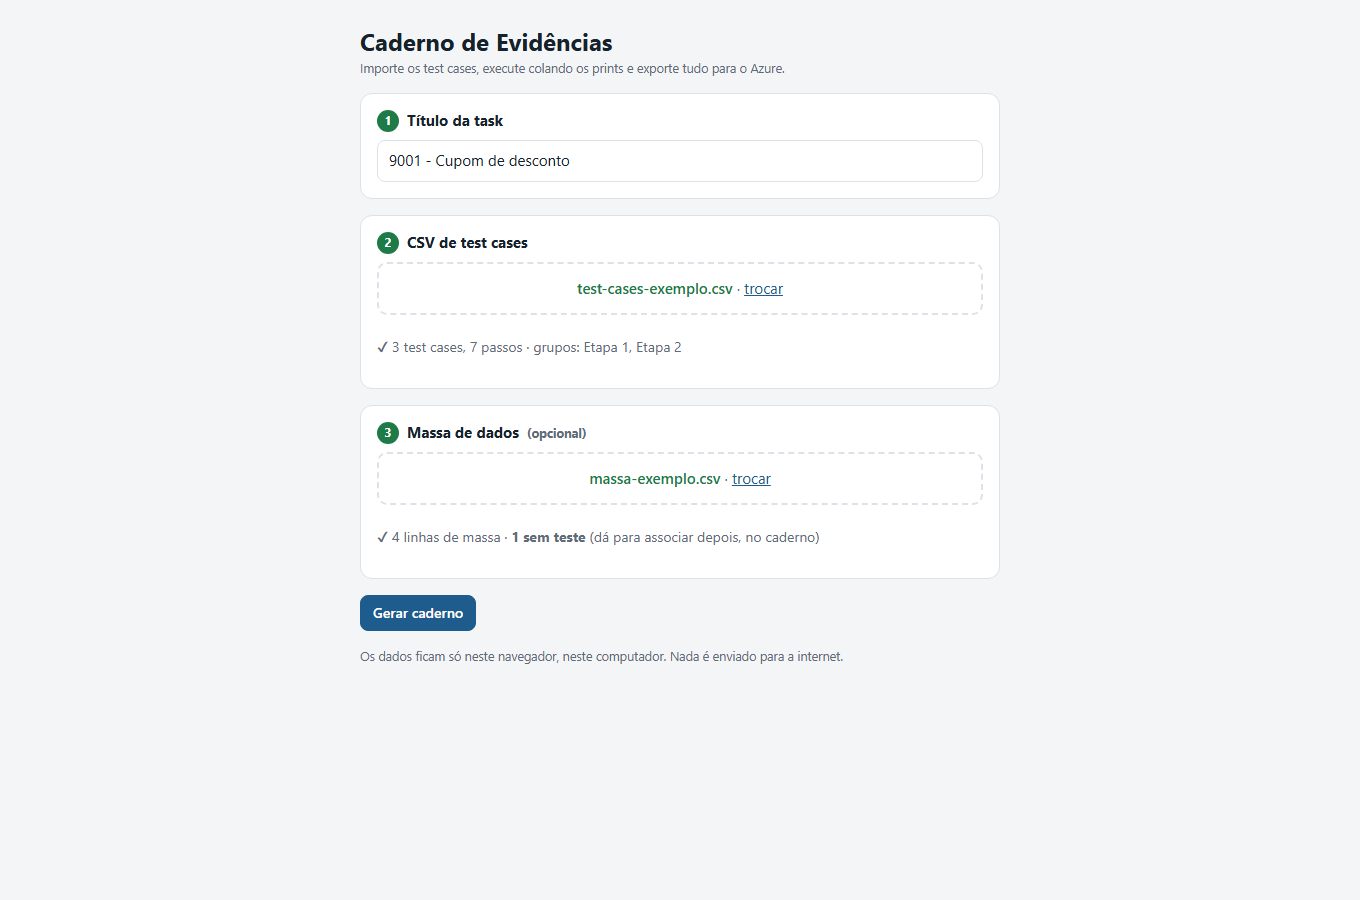
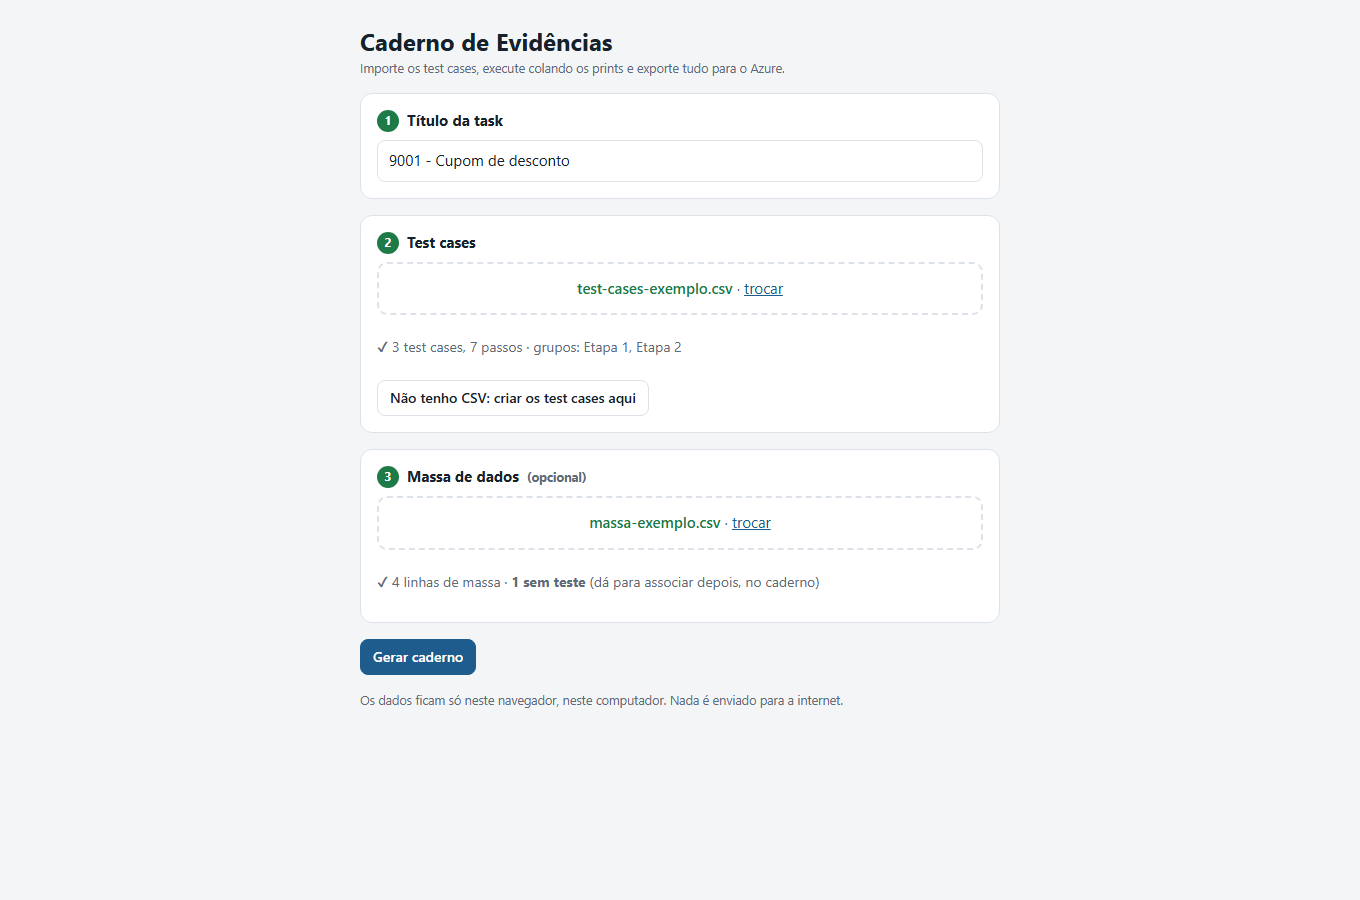
feat: criar caderno sem CSV, com os test cases feitos na tela
- Etapa 2 da tela inicial: "Nao tenho CSV: criar os test cases aqui".
- O caderno abre editando um CT01 em branco; "+ Novo test case" herda o
  grupo, Area Path e Assigned To do teste atual.
- O CSV exportado usa o formato padrao do Azure (BOM, CRLF, State Design)
  e reimporta igual (teste de ida e volta).
- Lista mostra "(sem titulo)" enquanto o titulo esta vazio.

diff --git a/src/tela/inicio.ts b/src/tela/inicio.ts
@@ -1,21 +1,28 @@
-// Tela inicial: uma coisa por vez. 1) titulo da task, 2) CSV de test cases,
-// 3) massa (opcional). O botao so libera quando 1 e 2 estao certos.
+// Tela inicial: uma coisa por vez. 1) titulo da task, 2) CSV de test cases
+// (ou criar os test cases na tela), 3) massa (opcional). O botao so libera
+// quando 1 e 2 estao certos.
 
 import * as db from '../armazenamento/db.ts';
 import { importarCsvAzureSeguro, type ResultadoImportacao } from '../importar/csv-azure.ts';
 import { importarMassa, type ResultadoMassa } from '../importar/massa.ts';
-import { statusEfetivo, type Caderno } from '../modelo.ts';
-import { criarCaderno } from './estado.ts';
+import { FORMATO_PADRAO, statusEfetivo, testeEmBranco, type Caderno } from '../modelo.ts';
+import { criarCaderno, estado } from './estado.ts';
 import { $, confirmarNoSegundoClique, esc, lerArquivo } from './util.ts';
 
 type Entrada = {
   tarefa: string;
   csv: { nome: string; resultado: ResultadoImportacao } | null;
+  semCsv: boolean;       // test cases criados na tela, sem arquivo
   massa: { nome: string; texto: string } | null;
 };
 
 export function mostrarInicio(salvos: Caderno[], abrirCaderno: (c: Caderno) => void, aoCriar: () => void): void {
-  const e: Entrada = { tarefa: '', csv: null, massa: null };
+  const e: Entrada = { tarefa: '', csv: null, semCsv: false, massa: null };
+
+  const podeGerar = () => {
+    const massa = massaAtual();
+    return e.tarefa.trim().length > 0 && (e.semCsv || (e.csv?.resultado.ok ?? false)) && (!massa || massa.ok);
+  };
   const cadernos = [...salvos].sort((a, b) => b.atualizadoEm - a.atualizadoEm);
 
   const massaAtual = (): ResultadoMassa | null => {
@@ -25,9 +32,9 @@ export function mostrarInicio(salvos: Caderno[], abrirCaderno: (c: Caderno) => v
   };
 
   const render = () => {
-    const csvOk = e.csv?.resultado.ok ?? false;
+    const csvOk = e.semCsv || (e.csv?.resultado.ok ?? false);
     const massa = massaAtual();
-    const pronto = e.tarefa.trim().length > 0 && csvOk && (!massa || massa.ok);
+    const pronto = podeGerar();
 
     $('#app')!.innerHTML = `<div class="inicio">
       <div>
@@ -45,9 +52,13 @@ export function mostrarInicio(salvos: Caderno[], abrirCaderno: (c: Caderno) => v
       </section>
 
       <section class="etapa ${csvOk ? 'ok' : ''}">
-        <h2><span class="num">2</span> CSV de test cases</h2>
-        ${zonaArquivo('csv', '.csv,text/csv', e.csv?.nome)}
-        ${e.csv ? resumoCsv(e.csv.resultado) : '<p class="note">O CSV de importação do Azure Test Plans (o que a IA da empresa gera).</p>'}
+        <h2><span class="num">2</span> Test cases</h2>
+        ${e.semCsv
+          ? `<p class="resumo-import">✔ Sem CSV: o caderno começa com um test case em branco para você preencher, e os outros você inclui com "+ Novo test case".</p>
+             <div><button class="btn ghost" id="usar-csv">Usar um CSV</button></div>`
+          : `${zonaArquivo('csv', '.csv,text/csv', e.csv?.nome)}
+             ${e.csv ? resumoCsv(e.csv.resultado) : '<p class="note">O CSV de importação do Azure Test Plans (o que a IA da empresa gera).</p>'}
+             <div><button class="btn ghost" id="sem-csv">Não tenho CSV: criar os test cases aqui</button></div>`}
       </section>
 
       <section class="etapa ${massa?.ok ? 'ok' : ''}">
@@ -77,14 +88,15 @@ export function mostrarInicio(salvos: Caderno[], abrirCaderno: (c: Caderno) => v
     );
     $<HTMLInputElement>('#tarefa')!.addEventListener('input', (ev) => {
       e.tarefa = (ev.target as HTMLInputElement).value;
-      const btn = $<HTMLButtonElement>('#gerar')!;
-      const massa = massaAtual();
-      btn.disabled = !(e.tarefa.trim() && e.csv?.resultado.ok && (!massa || massa.ok));
+      $<HTMLButtonElement>('#gerar')!.disabled = !podeGerar();
       $('#tarefa')!.closest('.etapa')!.classList.toggle('ok', Boolean(e.tarefa.trim()));
     });
+    $('#sem-csv')?.addEventListener('click', () => { e.semCsv = true; render(); });
+    $('#usar-csv')?.addEventListener('click', () => { e.semCsv = false; render(); });
 
     for (const tipo of ['csv', 'massa'] as const) {
-      const zona = $(`#zona-${tipo}`)!;
+      const zona = $(`#zona-${tipo}`);
+      if (!zona) continue; // sem CSV, a zona do arquivo nao aparece
       const receber = async (arquivo: File | undefined) => {
         if (!arquivo) return;
         const texto = await lerArquivo(arquivo);
@@ -99,10 +111,13 @@ export function mostrarInicio(salvos: Caderno[], abrirCaderno: (c: Caderno) => v
     }
 
     $('#gerar')!.addEventListener('click', async () => {
-      if (!e.csv?.resultado.ok) return;
-      const { testes, formato } = e.csv.resultado;
+      if (!podeGerar()) return;
       const massa = massaAtual();
-      await criarCaderno({ tarefa: e.tarefa.trim(), testes, formato, massa: massa?.ok ? massa.linhas : [] });
+      const origem = e.semCsv || !e.csv?.resultado.ok
+        ? { testes: [testeEmBranco('CT01')], formato: FORMATO_PADRAO }
+        : { testes: e.csv.resultado.testes, formato: e.csv.resultado.formato };
+      await criarCaderno({ tarefa: e.tarefa.trim(), ...origem, massa: massa?.ok ? massa.linhas : [] });
+      estado.editando = e.semCsv; // sem CSV, ja abre editando o primeiro test case
       aoCriar();
     });
   };

diff --git a/src/tela/caderno.ts b/src/tela/caderno.ts
@@ -11,7 +11,7 @@ import { exportarCsvAzure } from '../exportar/csv-azure.ts';
 import { nomeEvidencia, slug } from '../exportar/nomes.ts';
 import { gerarPacote, gerarRelatorioUnico, nomeDoPacote, nomeDoRelatorio } from '../exportar/pacote.ts';
 import {
-  EXECUCAO_VAZIA, passoQueFalhou, statusEfetivo,
+  EXECUCAO_VAZIA, passoQueFalhou, statusEfetivo, testeEmBranco,
   type DadosExecucao, type Evidencia, type NivelRisco, type Risco, type StatusTeste, type TestCase,
 } from '../modelo.ts';
 import * as db from '../armazenamento/db.ts';
@@ -105,7 +105,7 @@ function renderLista(): void {
     }
     const fotos = evidenciasDo(t.id).length;
     html += `<button class="item" data-teste="${t.id}" aria-current="${t.id === cad.ativo.testeId}">
-      <span class="n">${t.id}</span><span class="t" title="${esc(t.titulo)}">${esc(tituloCurto(t) || t.titulo)}</span>
+      <span class="n">${t.id}</span><span class="t" title="${esc(t.titulo)}">${esc(tituloCurto(t) || t.titulo || '(sem título)')}</span>
       <span class="meta">${fotos ? `<span class="cam">${fotos} 📷</span>` : ''}<span class="dot ${st}" title="${ROTULO[st]}"></span></span></button>`;
   }
   $('#itens')!.innerHTML = html || '<div class="grupo">Nada aqui</div>';
@@ -134,7 +134,7 @@ function renderCard(): void {
     <div class="head">
       <div>
         <div class="eyebrow">${t.id} · ${esc(t.grupo || 'Sem grupo')} · teste ${i + 1} de ${cad.testes.length}</div>
-        ${ed ? `<input type="text" data-edit="titulo" value="${esc(t.titulo)}" aria-label="Título do test case" style="width:100%;font-size:17px;font-weight:600">`
+        ${ed ? `<input type="text" data-edit="titulo" value="${esc(t.titulo)}" aria-label="Título do test case" placeholder="[Etapa 1] O que este teste valida" style="width:100%;font-size:17px;font-weight:600">`
              : `<h2>${esc(t.titulo)}</h2>`}
       </div>
       <span class="selo chip c-${st || 'todo'}">${ROTULO[st]}</span>
@@ -307,16 +307,7 @@ function novoTeste(): void {
   const maior = Math.max(0, ...cad.testes.map((t) => Number(t.id.replace(/\D/g, '')) || 0));
   const largura = Math.max(2, (cad.testes[0]?.id.length ?? 4) - 2);
   const base = testeAtivo();
-  const t: TestCase = {
-    id: `CT${String(maior + 1).padStart(largura, '0')}`,
-    titulo: base.grupo ? `[${base.grupo}] Novo test case` : 'Novo test case',
-    grupo: base.grupo,
-    passos: [{ acao: '', esperado: '', status: '' }],
-    status: '',
-    observacao: '',
-    azure: { id: '', areaPath: base.azure.areaPath, assignedTo: base.azure.assignedTo, state: 'Design' },
-    linhasOriginais: [],
-  };
+  const t = testeEmBranco(`CT${String(maior + 1).padStart(largura, '0')}`, base);
   cad.testes.splice(cad.testes.indexOf(base) + 1, 0, t);
   cad.ativo = { testeId: t.id, passo: 1 };
   estado.editando = true;

diff --git a/tests/e2e/cadernos.spec.ts b/tests/e2e/cadernos.spec.ts
@@ -19,6 +19,39 @@ test('varios cadernos: criar outro nao apaga o primeiro', async ({ page }) => {
   await expect(page.locator('.shot .fname')).toHaveText(['CT01_P1_01.png']);
 });
 
+test('criar caderno sem CSV: test cases feitos na tela e exportados para o Azure', async ({ page }) => {
+  await page.goto(pagina);
+  await page.getByPlaceholder('Cole aqui o título da task do Azure').fill('9003 - Sem CSV');
+  await expect(page.getByRole('button', { name: 'Gerar caderno' })).toBeDisabled();
+  await page.getByRole('button', { name: 'Não tenho CSV: criar os test cases aqui' }).click();
+  await page.getByRole('button', { name: 'Gerar caderno' }).click();
+
+  // Ja abre editando o CT01 em branco
+  await expect(page.locator('.item .t')).toHaveText('(sem título)');
+  await page.getByLabel('Título do test case').fill('[Etapa 1] Cupom válido');
+  await page.getByLabel('Ação do passo 1').fill('Aplicar o cupom.');
+  await page.getByLabel('Resultado esperado do passo 1').fill('Desconto aplicado.');
+
+  await page.getByRole('button', { name: '+ Novo test case' }).click();
+  await expect(page.getByLabel('Título do test case')).toHaveValue('[Etapa 1] '); // herda o grupo
+  await page.getByLabel('Título do test case').fill('[Etapa 1] Cupom expirado');
+  await page.getByLabel('Ação do passo 1').fill('Aplicar VERAO2020.');
+  await page.getByLabel('Resultado esperado do passo 1').fill('Cupom recusado.');
+  await page.getByRole('button', { name: '✔ Concluir edição' }).click();
+
+  await expect(page.locator('.item .n')).toHaveText(['CT01', 'CT02']);
+  await page.getByLabel('Passo 1 passou').click(); // executa como qualquer caderno
+  await expect(page.locator('#card .selo')).toHaveText('Passou');
+
+  const [download] = await Promise.all([page.waitForEvent('download'), page.getByRole('button', { name: 'Exportar CSV do Azure' }).click()]);
+  expect(readFileSync(await download.path(), 'utf8')).toBe('' + [
+    'ID,Work Item Type,Title,Test Step,Step Action,Step Expected,Area Path,Assigned To,State',
+    ',Test Case,[Etapa 1] Cupom válido,1,Aplicar o cupom.,Desconto aplicado.,,,Design',
+    ',Test Case,[Etapa 1] Cupom expirado,1,Aplicar VERAO2020.,Cupom recusado.,,,Design',
+    '',
+  ].join('\r\n'));
+});
+
 test('excluir caderno da lista pede confirmacao', async ({ page }) => {
   await gerarCaderno(page);
   await page.getByRole('button', { name: 'Meus cadernos' }).click();

diff --git a/tests/unit/exportar-csv.test.ts b/tests/unit/exportar-csv.test.ts
@@ -3,6 +3,7 @@ import assert from 'node:assert/strict';
 import { readFileSync } from 'node:fs';
 import { importarCsvAzure } from '../../src/importar/csv-azure.ts';
 import { exportarCsvAzure } from '../../src/exportar/csv-azure.ts';
+import { FORMATO_PADRAO, testeEmBranco } from '../../src/modelo.ts';
 
 const exemplo = readFileSync(new URL('../../exemplos/test-cases-exemplo.csv', import.meta.url), 'utf8');
 const ida = (texto: string) => {
@@ -49,6 +50,29 @@ test('resultado da execucao nao entra no CSV', () => {
   c.testes[0].passos[0].status = 'bad';
   c.testes[0].observacao = 'falhou';
   assert.equal(exportarCsvAzure(c), exemplo);
+});
+
+test('caderno criado sem CSV exporta no formato do Azure e reimporta igual', () => {
+  const t1 = testeEmBranco('CT01');
+  t1.titulo = '[Etapa 1] Cupom válido';
+  t1.grupo = 'Etapa 1';
+  t1.passos = [{ acao: 'Aplicar o cupom.', esperado: 'Desconto de 10%, sem arredondar.', status: '' }];
+  const t2 = testeEmBranco('CT02', t1);
+  t2.titulo += 'Cupom expirado';
+  t2.passos = [{ acao: 'Aplicar VERAO2020.', esperado: 'Cupom recusado.', status: '' }, { acao: 'Finalizar.', esperado: 'Sem desconto.', status: '' }];
+
+  const csv = exportarCsvAzure({ testes: [t1, t2], formato: FORMATO_PADRAO });
+  assert.equal(csv, '' + [
+    'ID,Work Item Type,Title,Test Step,Step Action,Step Expected,Area Path,Assigned To,State',
+    ',Test Case,[Etapa 1] Cupom válido,1,Aplicar o cupom.,"Desconto de 10%, sem arredondar.",,,Design',
+    ',Test Case,[Etapa 1] Cupom expirado,1,Aplicar VERAO2020.,Cupom recusado.,,,Design',
+    ',,,2,Finalizar.,Sem desconto.,,,',
+    '',
+  ].join('\r\n'));
+
+  const volta = ida(csv);
+  assert.deepEqual(volta.testes.map((t) => [t.titulo, t.passos.length]), [['[Etapa 1] Cupom válido', 1], ['[Etapa 1] Cupom expirado', 2]]);
+  assert.equal(exportarCsvAzure(volta), csv);
 });
 
 function existe(relativo: string): boolean {

diff --git a/src/modelo.ts b/src/modelo.ts
@@ -104,6 +104,25 @@ export const CABECALHO_AZURE = [
   'ID', 'Work Item Type', 'Title', 'Test Step', 'Step Action', 'Step Expected', 'Area Path', 'Assigned To', 'State',
 ] as const;
 
+// Formato do CSV quando o caderno nasce sem arquivo: o mesmo que o Azure gera
+// (BOM, CRLF, quebra no final), para a exportacao ser aceita na importacao.
+export const FORMATO_PADRAO: FormatoCsv = { cabecalho: [...CABECALHO_AZURE], bom: true, quebra: '\r\n', terminaComQuebra: true };
+
+// Test case novo, criado na tela. Area Path e Assigned To vem do teste de
+// referencia (quando ha), para o CSV exportado cair no mesmo lugar do Azure.
+export function testeEmBranco(id: string, referencia?: TestCase): TestCase {
+  return {
+    id,
+    titulo: referencia?.grupo ? `[${referencia.grupo}] ` : '',
+    grupo: referencia?.grupo ?? '',
+    passos: [{ acao: '', esperado: '', status: '' }],
+    status: '',
+    observacao: '',
+    azure: { id: '', areaPath: referencia?.azure.areaPath ?? '', assignedTo: referencia?.azure.assignedTo ?? '', state: 'Design' },
+    linhasOriginais: [],
+  };
+}
+
 // Um passo com falha derruba o teste inteiro, mesmo que alguem marque "Passou".
 export function statusEfetivo(t: TestCase): StatusTeste {
   return t.passos.some((p) => p.status === 'bad') ? 'bad' : t.status;

diff --git a/docs/exemplo-relatorio.html b/docs/exemplo-relatorio.html
@@ -81,7 +81,7 @@ footer{padding:8px 16px 32px;color:#8391a0;font-size:12.5px}
     <div>
       <div class="rotulo">Relatório de execução de testes</div>
       <h1>9001 - Cupom de desconto</h1>
-      <div class="meta">29/09/2026, 17:28 → 29/09/2026, 17:28 · 2 rodadas (reteste) · executado por Pessoa QA</div>
+      <div class="meta">30/09/2026, 08:34 → 30/09/2026, 08:34 · 2 rodadas (reteste) · executado por Pessoa QA</div>
     </div>
     <div class="veredito">✖ Reprovado</div>
   </div>
@@ -183,7 +183,7 @@ footer{padding:8px 16px 32px;color:#8391a0;font-size:12.5px}
 </section>
 </main>
 
-<footer>Gerado pelo Caderno de Evidências em 29/09/2026, 17:28 · os dados deste relatório vêm do caderno local e não foram enviados para lugar nenhum.</footer>
+<footer>Gerado pelo Caderno de Evidências em 30/09/2026, 08:34 · os dados deste relatório vêm do caderno local e não foram enviados para lugar nenhum.</footer>
 <div id="zoom" hidden><img alt=""></div>
 <script>
 document.querySelectorAll('.filtros button').forEach(function (b) {

diff --git a/README.md b/README.md
@@ -40,6 +40,8 @@ ferramenta. Aqui eles são só organizados, executados e exportados.
 
 1. Abra `dist/index.html` no navegador (duplo clique).
 2. Cole o **título da task**, escolha o **CSV de test cases** e, se tiver, o **arquivo de massa**.
+   Sem CSV? Clique em **"Não tenho CSV: criar os test cases aqui"**: o caderno começa com
+   um test case em branco, e o CSV exportado sai no formato de importação do Azure do mesmo jeito.
 3. Para cada teste: clique no passo, tire o print (`Win+Shift+S`), cole (`Ctrl+V`) e marque ✔ ou ✖.
 4. Exporte: **Gerar comentário**, **Exportar CSV do Azure** e **Baixar evidências (.zip)**.
 5. Para retestar depois da correção: abra o caderno em **Meus cadernos** e clique em
